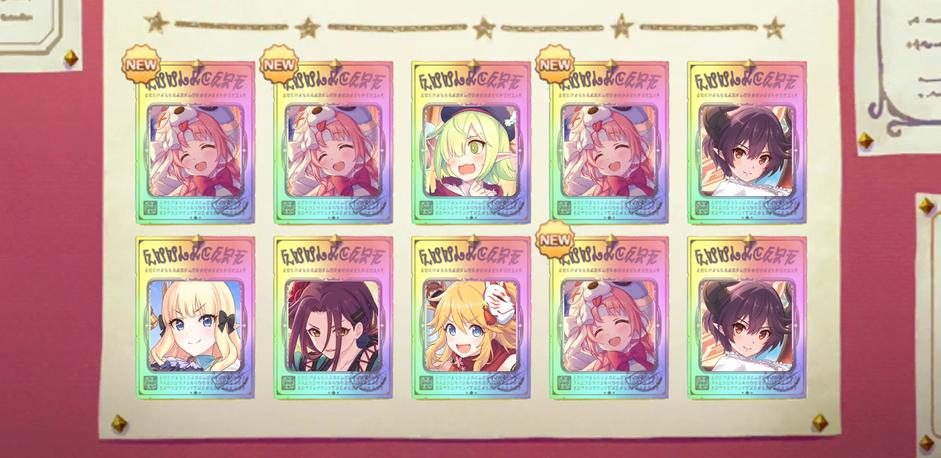
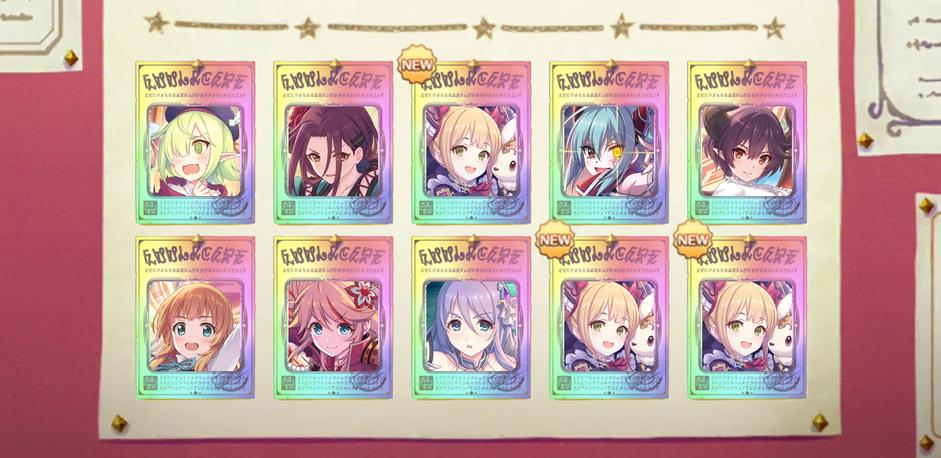
added Luna and Rima flb

diff --git a/commands/prototype.py b/commands/prototype.py
@@ -96,10 +96,12 @@ async def reload_emotes(client):
 def get_team(client):
     shed1 = '613628290023948288'
     shed2 = '613628508689793055'
+    shed3 = '639337169508630528'
+    sheds = [shed1, shed2, shed3]
     # get dict
     team = dict()
     for guild in client.guilds:
-        if str(guild.id) == shed1 or str(guild.id) == shed2:
+        if str(guild.id) in sheds:
             for emoji in guild.emojis:
                     team[str(emoji.name)] = str(emoji.id)
                 

diff --git a/commands/roll.py b/commands/roll.py
@@ -137,7 +137,7 @@ def gacha_result(t=10, mode=''):
 
     # LIMITED/SEASONAL ADDITION - PLEASE MANUALLY FILL
     # DOES NOT APPLY TO RATEUPS FOR NORMAL POOL CHARAS!
-    ssr_up = ['hmimi']
+    ssr_up = ['luna']
     ssr_up_rate_indiv = 0.007
     
     rolls = []
